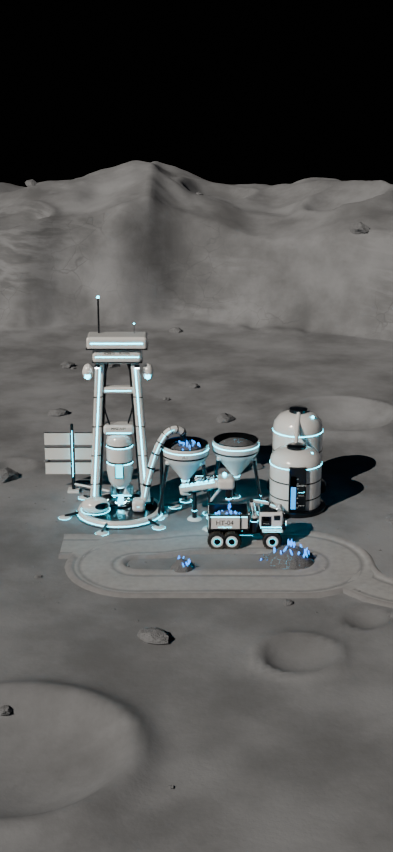
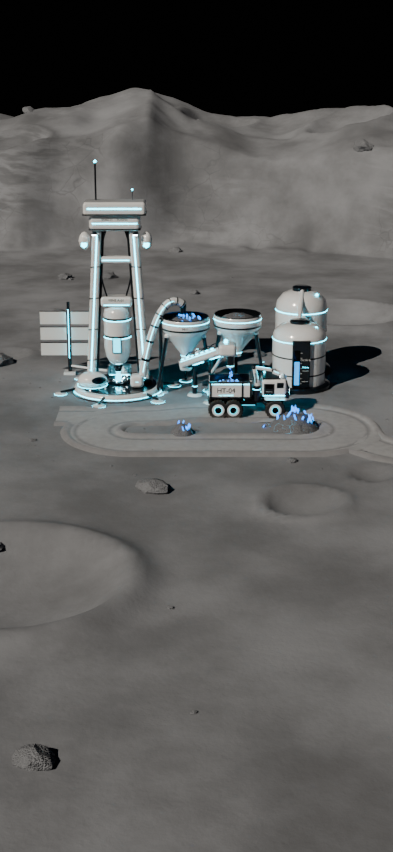
10/23/2026 - planet-stack - 08:32

diff --git a/art/3d/buildings/mine/_src/build_mine.py b/art/3d/buildings/mine/_src/build_mine.py
@@ -22,7 +22,7 @@ TORG = Vector((ML.TX, ML.TY, GZ))          # truck-local origin in world
 
 # ---------------------------------------------------------------- camera (Game Coder spec)
 FOV_Y, PITCH, PW, PH = 38.0, 18.0, 393, 852
-CY = float(A.get('cy', 460))     # focus-box centre on 393x852: Director wants the station at y~280-640 (sheet covers from 674)
+CY = float(A.get('cy', 380))     # focus-box centre on 393x852 (Mine + Refinery footprint; 380 keeps Mine Tier_20 on top and the Refinery front above y 650)
 TAN_H = math.tan(math.radians(FOV_Y / 2)) * PW / PH
 def cam_pose(tgt, W):
     d = (W / 2) / TAN_H; p = math.radians(PITCH)
@@ -41,6 +41,10 @@ def focus_points():
     for dx in (-1.6, 1.6):
         for dy in (-1.6, 1.6):
             for z in (0, 3.0): P.append(Vector((rx + dx, ry + dy, z)))
+    # Refinery (Director ruling 10/23: the station camera frames the rig and the Refinery together, every tier in frame).
+    # Convex-hull points of refinery_game.glb (all tiers), refinery-local Blender coords, placed at REFINERY_ANCHOR (+90 deg about Z).
+    RHULL = [(-2.6, 1.26, -0.1), (2.3, 1.26, -0.1), (2.3, -1.24, -0.1), (-8.5, 0.71, -0.1), (-29.99, -2.07, 0.06), (-29.9, -24.43, 0.06), (-19.15, -24.64, -0.08), (-19.15, -0.58, 0.06), (-11.84, -24.73, 0.18), (-1.92, 1.48, 1.39), (2.1, -1.02, 4.01), (-2.02, 1.49, 3.79), (2.02, 1.49, 4.01), (-8.25, -1.04, 8.35), (-6.95, -2.04, 8.35), (-27.77, -2.62, 2.85), (-33.2, -12.24, -0), (-26.56, -2.26, 3.86), (-7.04, 1.03, 0.56), (-19.25, -14.34, -0.1), (-22.65, -14.34, -0.1), (-22.65, -4.24, -0.1), (-21.03, -25.44, 8.6), (-29.28, -25.06, 2.15), (-24.8, -22.76, 14.09), (-12.98, -24.08, 5.1), (-13.67, -23.34, 6.67)]
+    for hx, hy, hz in RHULL: P.append(Vector((rx - hy, ry + hx, hz)))
     for x, y in ((9.0 + 4.5 + ML.ROAD_W / 2, -9.0), (9.0, -13.5 - ML.BERM_OUT), (-5.0, -13.5 - ML.BERM_OUT), (13.0, -4.0)):
         P.append(Vector((x, y, 0.0)))   # haul loop: graded edge at the east apex (the berm is open there: access road), south berm toes
     for o in bpy.data.objects:                       # silo + beacon tops stay in frame

diff --git a/art/3d/buildings/mine/README.md b/art/3d/buildings/mine/README.md
@@ -4,7 +4,7 @@ The in-game **Mine** for Planet Stack, built from the approved **concept B (slee
 
 | | |
 |---|---|
-| **Game GLB** | `mine_game.glb`, **179,192 B (0.18 MB)**, md5 `0dcb9ef5048f828a2b43223bde1ee646` |
+| **Game GLB** | `mine_game.glb`, **179,192 B (0.18 MB)**, md5 `ec8b9c4fcc82b6e815965a5d1b6671ef` |
 | Triangles / draws | **24,132 triangles, 11 draw calls with every tier visible** (11 meshes × 1 primitive) |
 | Format | meshopt + quantization (`gltfpack -cc -kn -ke`). Extensions: `EXT_meshopt_compression` and `KHR_mesh_quantization` only. **No Draco.** |
 | Materials | `SHM_Paint` and `SHM_GlowCyan` (`../_shared/shared_materials.json`). Plain metallic/roughness plus emissiveFactor. No transmission, clearcoat or ior. Colour is in `COLOR_0` vertex colours. **No images or textures** and no TEXCOORD. |
@@ -15,7 +15,7 @@ The in-game **Mine** for Planet Stack, built from the approved **concept B (slee
 
 ## Files
 - `mine_game.glb`: the game asset.
-- `mine_phone_1179x2556.png` (Cycles master) and `mine_phone_393x852.png` (its Lanczos downscale): the station camera view. The ground uses the shared cool-grey `M_ground` (material unchanged; only the render terrain under the road is cut ≤ a few cm so it never pokes through). The renders show the full concept-B shading. The refinery is not in these renders; the anchor area west of the rig is empty ground.
+- `mine_phone_1179x2556.png` (Cycles master, 40 samples) and `mine_phone_393x852.png` (its Lanczos downscale): the station camera view. The ground uses the shared cool-grey `M_ground` (material unchanged; only the render terrain under the road is cut ≤ a few cm so it never pokes through). The renders show the full concept-B shading. The refinery is not in these renders; the anchor area west of the rig is empty ground.
 - `mine_tiers_393x852.png`: tier check, the same station camera with **every tier visible** (Cycles, 24 samples, rendered at 393×852). Made with `--mode tiers --mout DIR`, which also writes `tier_boxes.json`.
 - `_src/mine_layout.py`: the station re-layout applied on top of the concept-B scene (see Layout changes), including the graded haul road (`graded_roads`, `M_road_graded`).
 - `_src/build_mine.py`: does the camera fit, renders the phone shots, and builds the game GLB. That covers the material remap, tiers, culling, the per-group bake and decimation to budget, the truck armature and skin, the arm poses, the clearance checks, the clips, the markers and the export.
@@ -37,7 +37,8 @@ python3 $S/phone_downscale.py art/3d/buildings/mine
 Perspective, **38° vertical FOV, tilted down 18°, aimed at `Cam_Target`**.
 - **W = 37 m**: `Cam_Target` carries `extras {"frame_w": 37, "fov_y_deg": 38, "pitch_down_deg": 18, "distance_m": 116.48}`.
 - **Distance** d = (W/2) / (tan 19° · 393/852) = **116.48 m**. The same value holds for 393×852 and for the 1179×2556 master, because the aspect ratio is the same.
-- **`Cam_Target`** sits at glTF **(0.09, 10.36, 1.00)**, which is Blender (0.09, −1.0, 10.36). It is high above the pad on purpose: with W and d fixed, raising the aim point is what moves the station *down* the screen (it was (−0.11, 2.65, 1.00), which put the station at y 242–508).
+- **`Cam_Target`** sits at glTF **(0.06, −2.36, 1.00)**, which is Blender (0.06, −1.0, −2.36). It is a look-at point only, so it may sit below ground: with W and d fixed, lowering the aim point moves the station *up* the screen. It was (0.09, 10.36, 1.00) before the Refinery joined the frame (Mine-only box y 322–598), and (−0.11, 2.65, 1.00) before that.
+- **Mine + Refinery (Director ruling 10/23):** the camera fit now also holds the convex hull of `refinery_game.glb` (all tiers) placed at `REFINERY_ANCHOR`, and the focus box is centred at `--cy` **380** (was 460). The Refinery stands south of the haul loop on the camera side; with the old target its front reached y 743. `REFINERY_ANCHOR` and `Path_Dump` did not move.
 - **Fit:** W is fixed at 37. The target is solved so the focus box is centred at y 460 on 393×852 and centred in x. The focus box holds:
   - the rig
   - the conveyor head
@@ -46,7 +47,7 @@ Perspective, **38° vertical FOV, tilted down 18°, aimed at `Cam_Target`**.
   - the haul loop to its graded edge at the east apex (the berm is open there for the access road) and to the south berm toes
   - a 3.2 × 3.2 × 3 m refinery intake-bin envelope at `REFINERY_ANCHOR`
 
-  The fitted box is **x 26…367, y 322…598 px** (x margin check 4–96 %, y 100–650). **Director asked for y≈280–640, but at W = 37 the distance is fixed (116.48 m), so the station's on-screen height is fixed at ~276 px and cannot stretch to 360 px; moving `Cam_Target` only slides it.** 322–598 is that span centred in the 280–640 band (42 px short at each end). Reaching 280–640 would need W ≈ 28, which cuts off the Refinery and the east hairpin.
+  The fitted box (Mine focus + Refinery hull) is **x 20…373, y 188…572 px** (x margin check 4–96 %, y 100–650). **Director asked for y≈280–640, but at W = 37 the distance is fixed (116.48 m), so the station's on-screen height is fixed at ~276 px and cannot stretch to 360 px; moving `Cam_Target` only slides it.** 322–598 is that span centred in the 280–640 band (42 px short at each end). Reaching 280–640 would need W ≈ 28, which cuts off the Refinery and the east hairpin.
 
 ## Game GLB nodes
 Everything sits under the root `Mine`. gltfpack puts each mesh on an **unnamed child node** of its named node; that child carries the quantization offset and scale. Find meshes under the named node with `traverse`. The names, pivots and extras are on the named nodes.
@@ -94,11 +95,11 @@ Everything sits under the root `Mine`. gltfpack puts each mesh on an **unnamed c
 
 | Tier | x px | y px | In frame (y 100–650) |
 |---|---|---|---|
-| `Tier_03` | 181–228 | 472–486 | yes |
-| `Tier_05` | 194–269 | 432–516 | yes |
-| `Tier_08` | 44–111 | 423–494 | yes |
-| `Tier_12` | 267–326 | 405–498 | yes |
-| `Tier_20` | 82–153 | 295–381 | yes |
+| `Tier_03` | 181–230 | 339–362 | yes |
+| `Tier_05` | 195–272 | 308–393 | yes |
+| `Tier_08` | 39–108 | 302–375 | yes |
+| `Tier_12` | 269–330 | 284–379 | yes |
+| `Tier_20` | 79–152 | 159–250 | yes |
 
 Every tier node has `extras {"tier": N, "hidden_by_default": true}` (three.js `userData`). glTF has no hidden flag, so the loader must set `visible = false` on load. Each tier is one draw.
 
@@ -150,7 +151,7 @@ Base 13,888 + moving 7,424 + tiers 2,820 = 24,132 tris.
   - **`Path_Spur_02`** (−1.0, 0, 13.5), yaw 180, for **`Dep_02`** (−1.2, −0.01, 10.4): the tap deposit, r 1.05 m.
 - **`Road_Entry`** (13.5, 0, 9.0), yaw −90 (heading +Z): the east apex of the loop, where the graded **access road** joins. The road leaves heading +Z (toward the camera), bends east between two craters and runs off the right edge of the phone frame (it ends at about glTF x 22, z 16.4). Position unchanged.
 - **`Crew_Path_01..07`**: (−9.4, 0.64, 0.2) at the rig operator pod deck → (−9.0, −0.01, 1.9) → (−5.6, 0, 2.7) → (−2.2, 0, 2.3) → (1.6, 0, −0.2) → (5.6, 0, −1.0) → (8.6, 0, −1.4) at the silo.
-- **`Cam_Target`** (0.09, 10.36, 1.00), `frame_w` 37. See Station camera. **This is the only marker that moved.**
+- **`Cam_Target`** (0.06, −2.36, 1.00), `frame_w` 37. See Station camera. **This is the only marker that moved** (re-centred on the Mine + Refinery).
 
 ## Layout changes vs the concept-B master
 These live in `_src/mine_layout.py`. The B look, palette and parts are otherwise unchanged.
